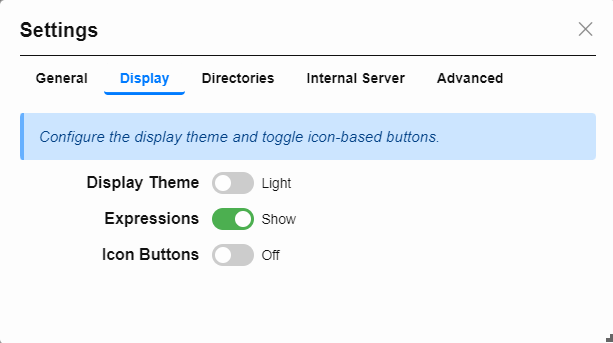
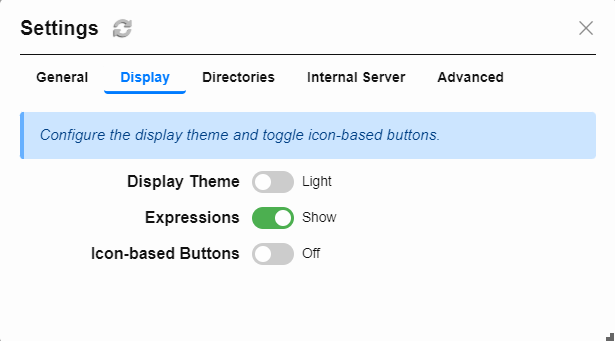
more help translation

diff --git a/assets/popup.css b/assets/popup.css
@@ -4,35 +4,34 @@
   z-index: 10000;
   box-sizing: border-box;
 
-  /* key bits */
-  width: max-content;           /* grow to fit grid width */
-  height: max-content;          /* grow to fit grid height */
+  /* autosize when it has content */
+  width: max-content;
+  height: max-content;
   max-width: calc(100vw - 24px);
   max-height: calc(100vh - 24px);
-  overflow: auto;               /* scroll if it still exceeds */
-  padding: 8px;
+  overflow: auto;
 
+  /* IMPORTANT: no chrome by default -> prevents 18×18 dot */
+  padding: 0;
+  border: 0;
+  box-shadow: none;
   background: var(--input-bg, #fff);
   color: var(--input-fg, #111);
-  border: 1px solid var(--input-border-color, #ccc);
   border-radius: 6px;
+
+  /* just in case some global style leaks */
+  list-style: none;
 }
 
-/* Only when explicitly opened do we show chrome */
+/* Only show chrome when visible */
 .popup-panel.popup-visible {
-  padding: 4px;
-  border: 1px solid var(--popup-border);
+  padding: 8px; /* or 4px if you prefer */
+  border: 1px solid var(--input-border-color, #ccc);
   box-shadow: var(--generic-box-shadow);
-  opacity: 1;
 }
 
-/* Support explicit hidden state */
-.popup-hidden {
-  display: none !important;
-  opacity: 0;
-}
-
-/* Auto-hide empty containers (extra safety) */
+/* Hidden state + safety */
+.popup-hidden { display: none !important; }
 .popup-panel:empty { display: none !important; }
 
 /* Status button popup: natural autosizing */

diff --git a/i18n/en.js b/i18n/en.js
@@ -371,7 +371,7 @@ export default {
   "modal.settings.icon.buttons": "Icon-based Buttons",
   "modal.settings.context.folder": "Context Directory",
   "modal.settings.git.root": "Git Root Directory",
-  "modal.settings.git.enabled": "Enable Git",
+  "modal.settings.git.enabled": "Use Git Repository",
   "modal.settings.internal.enabled": "Internal Server",
   "modal.settings.internal.port": "Listening Port",
   "modal.settings.advanced.plugins.enabled": "Enable Plugins",

diff --git a/i18n/nl.js b/i18n/nl.js
@@ -391,7 +391,7 @@ export default {
   "modal.settings.icon.buttons": "Pictogram knoppen",
   "modal.settings.context.folder": "Contextmap",
   "modal.settings.git.root": "Git-rootmap",
-  "modal.settings.git.enabled": "Git inschakelen",
+  "modal.settings.git.enabled": "Gebruik Git-repository",
   "modal.settings.internal.enabled": "Interne Server",
   "modal.settings.internal.port": "Luisterpoort",
   "modal.settings.advanced.plugins.enabled": "Plugins inschakelen",

diff --git a/help/nl/settings.md b/help/nl/settings.md
@@ -1,0 +1,83 @@
+---
+id: "settings"
+title: "Instellingen"
+order: 2
+---
+
+## Configuratie-instellingen
+
+Formidable laat je het gedrag en de weergave aanpassen per profiel (bijv. `user.json`) via het **Instellingen**-venster. Dit omvat identiteitsinstellingen, visuele voorkeuren, opslagpaden, pluginbeheer, ontwikkelmodus en servergedrag.
+
+Om de instellingen te openen, kies **`Config ⇨ Instellingen...`** in het menu.
+
+---
+
+### Algemeen
+
+Stel auteurgegevens in die gebruikt worden in formulieren en uitvoer.
+
+![Instellingen – Algemeen](images/settings-general.nl.png)
+
+- **Taal** – Bepaalt de taal van de interface.
+- **Auteur Naam** – Gebruikt in metadata en weergegeven uitvoer.
+- **Auteur E-mail** – Gebruikt in metadata en weergegeven uitvoer.
+
+---
+
+### Weergave
+
+Pas de weergave en UI-functies van Formidable aan.
+
+![Instellingen – Weergave](images/settings-display.nl.png)
+
+- **Weergave Thema** – Schakel tussen Licht- en Donkermodus.
+- **Expressies** – Toon of verberg inline resultaat-expressies in zijbalken.
+- **Pictogram knoppen** – Gebruik knoppen die alleen uit pictogrammen bestaan (experimenteel).
+
+---
+
+### Mappen
+
+Bepaal waar je context staat en configureer Git-gebruik.
+
+![Instellingen – Mappen](images/settings-directories.nl.png)
+
+- **Context Directory** – Stelt de basismap in voor je templates en formulieren.
+- **Gebruik Git-repository** – Schakelt Git-tracking en versiebeheer in.
+- **Git Root Directory** – Pad dat wordt gebruikt voor Git-operaties.
+
+> *De contextmap is waar je templates en ingevulde formulieren worden opgeslagen. Wanneer Git is ingeschakeld, gebruikt Formidable de opgegeven Git-rootmap voor versiebeheer.*  
+> *Met Git ingeschakeld wordt het menu **Git-acties...** beschikbaar voor het toevoegen, committen en synchroniseren van bestanden.*
+
+---
+
+### Interne Server
+
+Configureer de ingebouwde Markdown-previewserver.
+
+![Instellingen – Interne Server](images/settings-server.nl.png)
+
+- **Interne Server** – Schakel de server in of uit.
+- **Luisterpoort** – Stel de poort in voor preview-toegang (standaard: `8383`).
+
+> *Wanneer de server actief is, kun je Markdown-voorbeelden in je browser bekijken via `http://localhost:8383`.*
+
+---
+
+### Geavanceerd
+
+Toegang tot systeemopties en ontwikkelfuncties.
+
+![Instellingen – Geavanceerd](images/settings-advanced.nl.png)
+
+- **Plugins inschakelen** – Schakel ondersteuning voor plugins in of uit.
+- **Decryptiesleutel** – Voer de sleutel in om versleutelde velden te ontsleutelen.
+- **Ontwikkelingsmodus** – Activeert ontwikkelfuncties voor debuggen of uitbreidingen.
+- **Logging inschakelen** – Leg gedetailleerde runtime-logs vast voor diagnose.
+
+---
+
+### Gerelateerde onderwerpen
+
+- [Gebruikersprofielen](#profiles)
+- [Templates](#templates)

diff --git a/help/en/settings.md b/help/en/settings.md
@@ -8,7 +8,7 @@ order: 2
 
 Formidable allows you to customize its behavior and appearance per profile (e.g. `user.json`) using the **Settings** modal. This includes identity settings, visual preferences, storage paths, plugin control, development mode, and server behavior.
 
-To access the settings, open the **`Config → Settings...`** menu option.
+To access the settings, open the **`Config ⇨ Settings...`** menu option.
 
 ---
 
@@ -18,6 +18,7 @@ Set author identity used in forms and outputs.
 
 ![Settings – General](images/settings-general.png)
 
+- **Language** – Sets the language for the interface.
 - **Author Name** – Used in metadata and rendered output.
 - **Author Email** – Used in metadata and rendered output.
 
@@ -31,7 +32,7 @@ Customize Formidable’s appearance and UI features.
 
 - **Display Theme** – Toggle between Light and Dark mode.
 - **Expressions** – Show or hide inline expression results in sidebars.
-- **Icon Buttons** – Use icon-only buttons (experimental).
+- **Icon-based Buttons** – Use icon-only buttons (experimental).
 
 ---
 
@@ -57,7 +58,7 @@ Configure Formidable’s built-in Markdown preview server.
 ![Settings – Internal Server](images/settings-server.png)
 
 - **Internal Server** – Toggle the server on or off.
-- **Server Port** – Specify the port for preview access (default: `8383`).
+- **Listening Port** – Specify the port for preview access (default: `8383`).
 
 > *With the server enabled, preview Markdown in your browser via `http://localhost:8383`.*
 
@@ -70,7 +71,7 @@ Access system-level features and development controls.
 ![Settings – Advanced](images/settings-advanced.png)
 
 - **Enable Plugins** – Turn plugin support on or off.
-- **Secret Decryption Key** – Enter the key to decrypt encrypted field values.
+- **Decryption Key** – Enter the key to decrypt encrypted field values.
 - **Development Mode** – Enables developer features for debugging or custom extensions.
 - **Enable Logging** – Capture detailed runtime logs for diagnostics.
 

diff --git a/help/nl/intro.md b/help/nl/intro.md
@@ -14,7 +14,7 @@ Om aan de slag te gaan met Formidable, volg je deze stappen:
 
 1. **Installatie**: Download en installeer de nieuwste Formidable-installer via [de officiële website of repository](https://github.com/petervdpas/Formidable/releases).
 2. **Start Formidable**: Open de applicatie na installatie.
-3. **Wijzig je instellingen**: [Configureer je instellingen](#settings) door in het hoofdmenu naar **`Config → Settings...`** te gaan. Hier kun je je auteursgegevens instellen, plugins inschakelen en weergave-opties aanpassen.
+3. **Wijzig je instellingen**: [Configureer je instellingen](#settings) door in het hoofdmenu naar **`Config ⇨ Settings...`** te gaan. Hier kun je je auteursgegevens instellen, plugins inschakelen en weergave-opties aanpassen.
 4. **Maak een nieuw [Template](#templates)**: Gebruik de intuïtieve interface om een nieuwe template te maken door velden te creëren en deze naar wens te ordenen.
 5. **Wissel context**: Gebruik de contextschakelaar om te wisselen tussen template-modus en opslag-modus, zodat je eenvoudig meerdere formulieren kunt beheren.
 6. **Vul een formulier in**: Zodra je template klaar is, kun je een formulier invullen met de aangemaakte velden.

diff --git a/help/en/intro.md b/help/en/intro.md
@@ -14,7 +14,7 @@ To get started with Formidable, follow these steps:
 
 1. **Installation**: Download and install the latest Formidable installer from [the official website or repository](https://github.com/petervdpas/Formidable/releases).
 2. **Launch Formidable**: Open the application after installation.
-3. **Change your settings**: [Configure your settings](#settings) by navigating to **`Config → Settings...`** in the main menu. Here you can set your author identity, enable plugins, and adjust display options.
+3. **Change your settings**: [Configure your settings](#settings) by navigating to **`Config ⇨ Settings...`** in the main menu. Here you can set your author identity, enable plugins, and adjust display options.
 4. **Create a New [Template](#templates)**: Use the intuitive interface to create a new template by creating fields and arranging them as needed.
 5. **Switch Context**: Use the context switcher to change between template creation or storage, allowing you to manage multiple forms easily.
 6. **Fill out a Form**: Once your template is ready, you can fill out a form using the fields you created.
